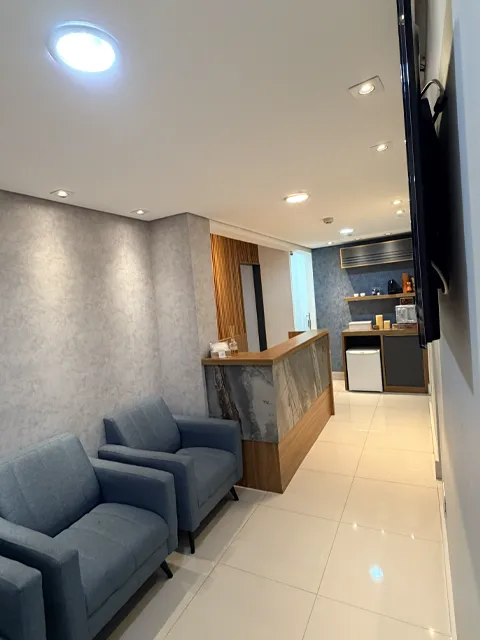
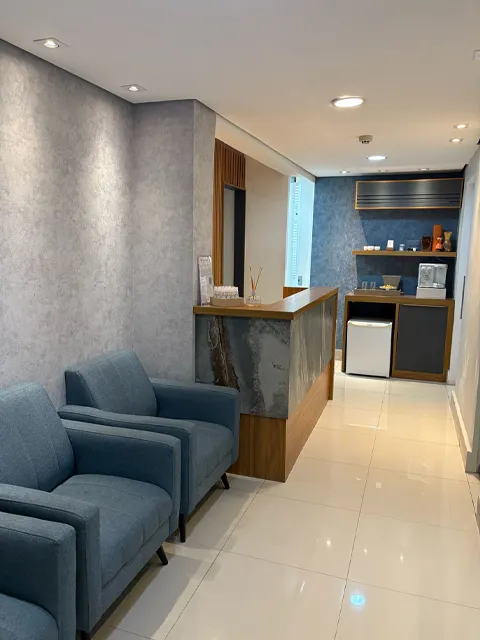
Att

diff --git a/index.html b/index.html
@@ -1824,11 +1824,11 @@
               <div>
                 <img
                   class="service-icon"
-                  src="./assets/008-white-teeth.svg"
-                  alt="Ícone de clareamento dental"
+                  src="./assets/030-tooth-2.svg"
+                  alt="Ícone de endodontia"
                 />
-                <h3>Clareamento dental</h3>
-                <p>Procedimento indicado após avaliação criteriosa da saúde de dentes e gengivas.</p>
+                <h3>Endodontia</h3>
+                <p>Tratamento de canal focado no alívio da dor e preservação dental.</p>
               </div>
             </article>
             <article class="service-card">
@@ -1851,17 +1851,6 @@
                 />
                 <h3>Odontologia domiciliar</h3>
                 <p>Atendimento humanizado para quem necessita de cuidados fora do consultório.</p>
-              </div>
-            </article>
-            <article class="service-card">
-              <div>
-                <img
-                  class="service-icon"
-                  src="./assets/030-tooth-2.svg"
-                  alt="Ícone de endodontia"
-                />
-                <h3>Endodontia</h3>
-                <p>Tratamento de canal focado no alívio da dor e preservação dental.</p>
               </div>
             </article>
             <article class="service-card">
@@ -1895,6 +1884,17 @@
                 />
                 <h3>Harmonização orofacial</h3>
                 <p>Busca pelo equilíbrio facial com indicação técnica, clínica e responsável.</p>
+              </div>
+            </article>
+            <article class="service-card">
+              <div>
+                <img
+                  class="service-icon"
+                  src="./assets/008-white-teeth.svg"
+                  alt="Ícone de clareamento dental"
+                />
+                <h3>Clareamento dental</h3>
+                <p>Procedimento indicado após avaliação criteriosa da saúde de dentes e gengivas.</p>
               </div>
             </article>
           </div>
@@ -2256,6 +2256,13 @@
                     <p>Conforto, crit&eacute;rio e confian&ccedil;a em cada detalhe.</p>
                   </div>
                 </article>
+                <article class="clinic-slide">
+                  <img src="./assets/clinica_11.webp" alt="Ambiente elegante da Bacic Odontologia" />
+                  <div class="clinic-slide-caption">
+                    <h3>Eleg&acirc;ncia acolhedora</h3>
+                    <p>Um ambiente pensado para transmitir tranquilidade, cuidado e sofistica&ccedil;&atilde;o.</p>
+                  </div>
+                </article>
               </div>
             </div>
           </div>
@@ -2352,14 +2359,15 @@
             <p class="eyebrow">São Paulo • Consolação</p>
             <h2 class="title">No coração da cidade, ao lado da Paulista</h2>
             <p class="text-lg" style="margin-top: 24px">
-              Nossa localização na Rua Luís Coelho foi escolhida para facilitar o dia a dia de
-              quem reside, estuda ou trabalha nas imediações do maior centro financeiro da América
-              Latina.
+              A Bacic Odontologia está localizada na Rua Luís Coelho, 308, esquina com a Rua
+              Haddock Lobo, na Consolação. A clínica também está a poucos passos da Avenida
+              Paulista e metrô Consolação, facilitando o deslocamento de quem trabalha, estuda ou
+              circula pela região.
             </p>
 
             <div class="contact-box" style="margin-top: 8px">
               <div class="contact-address">
-                <strong>Rua Luís Coelho, 308</strong>
+                <strong>Rua Luís Coelho, 308, esquina com a Rua Haddock Lobo</strong>
                 <p>Consolação, São Paulo/SP</p>
                 <div class="contact-chip">Próximo ao metrô Consolação e à Av. Paulista</div>
               </div>
